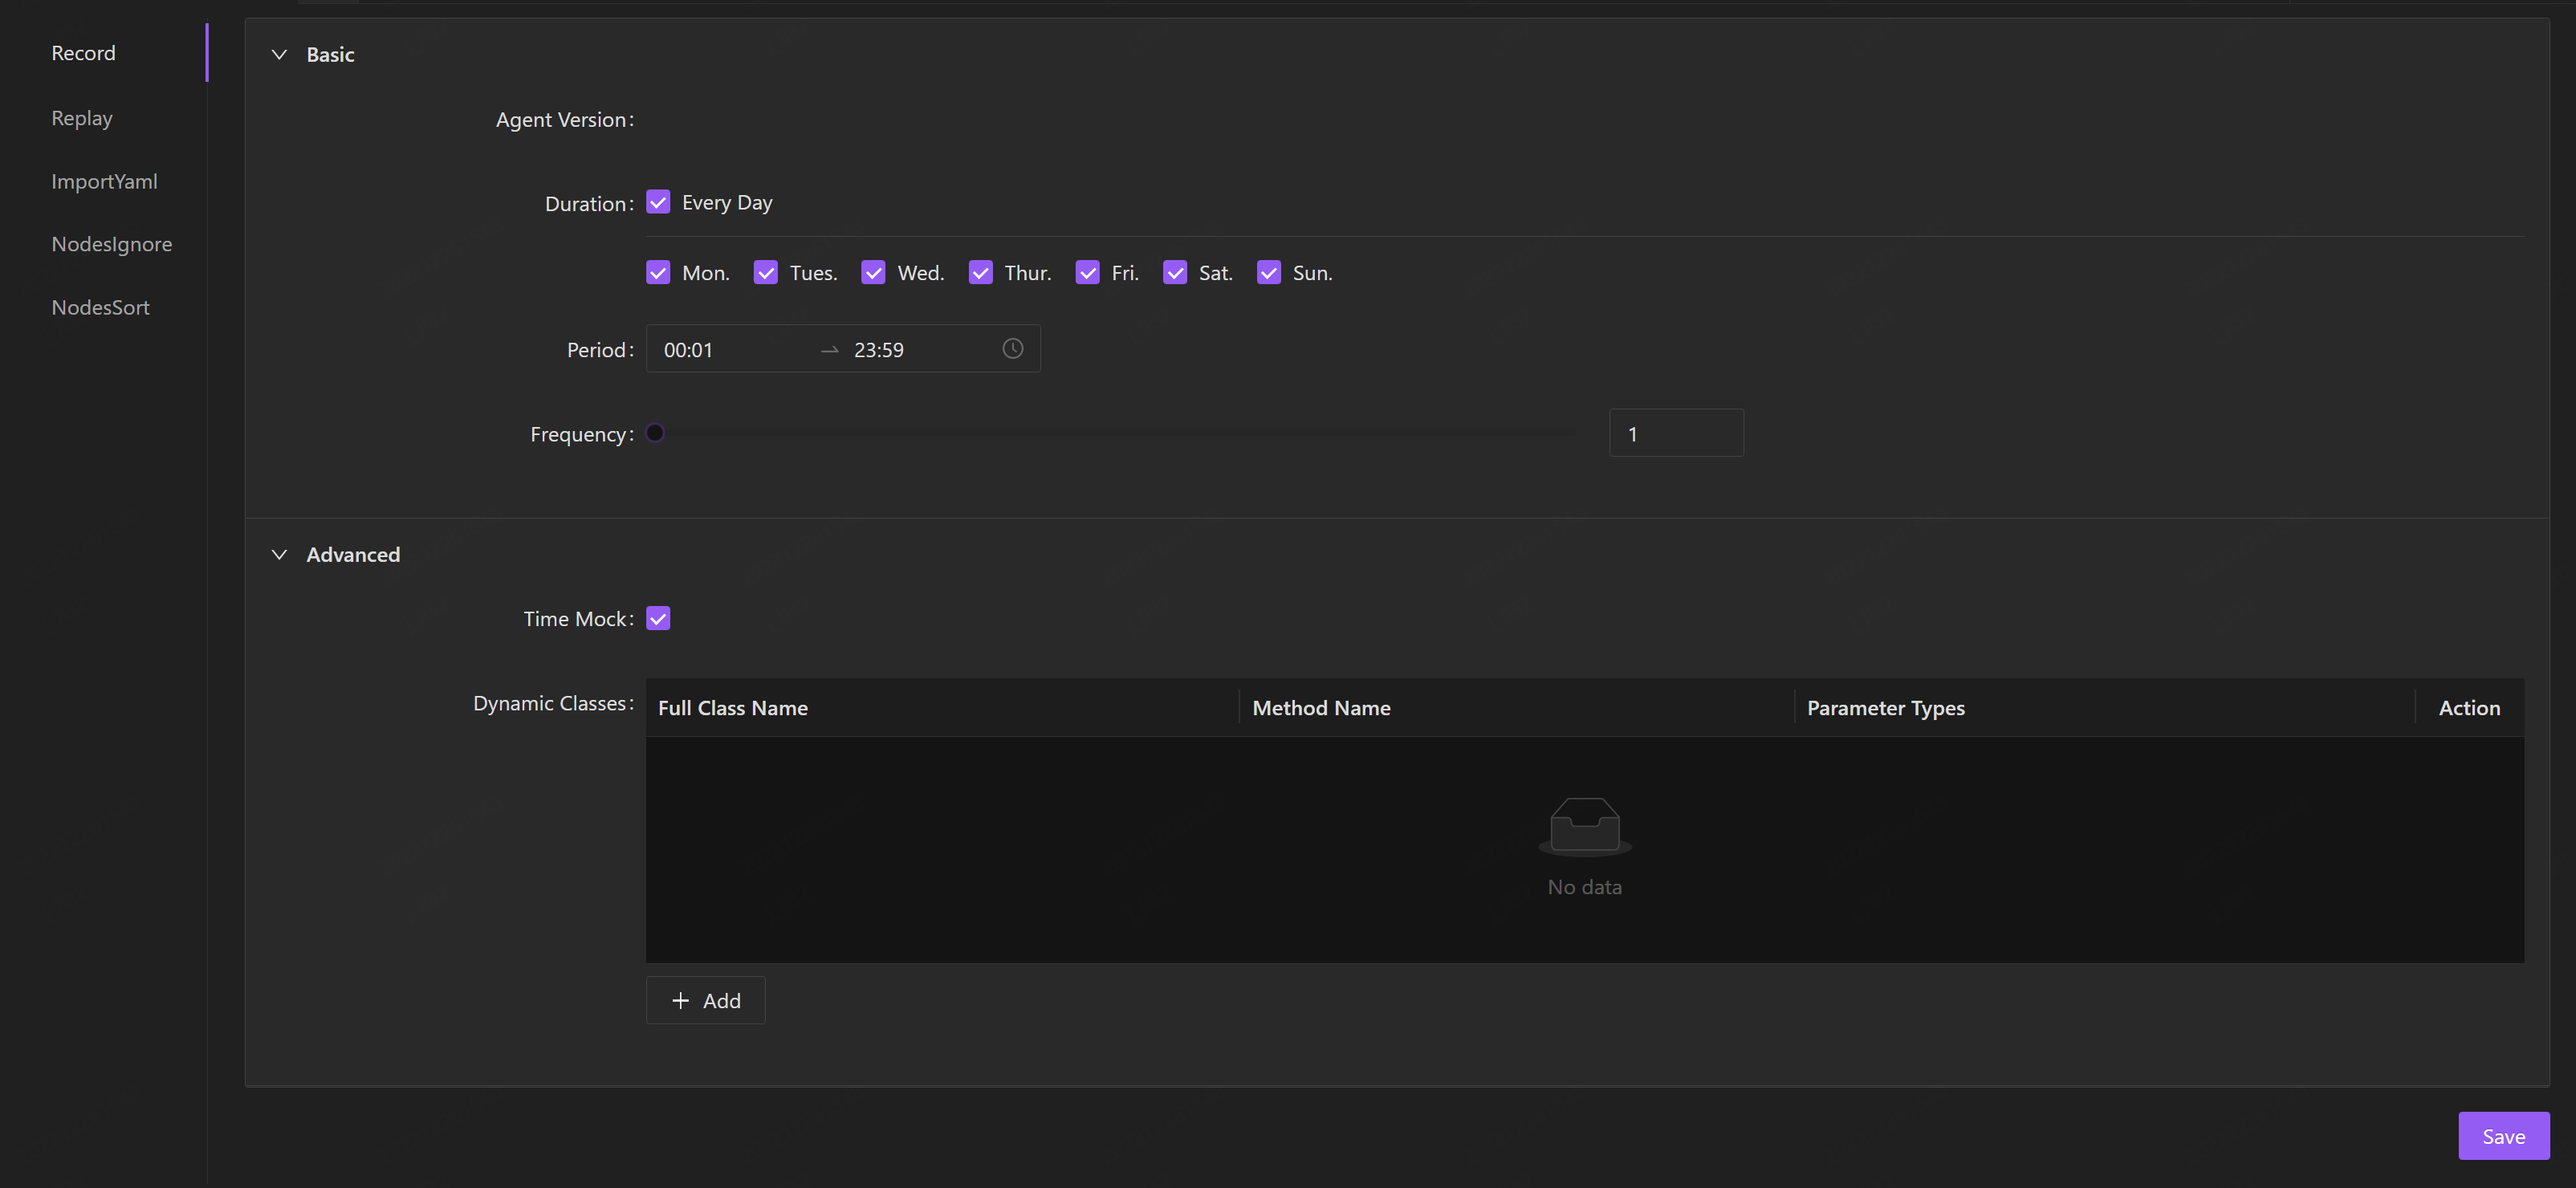
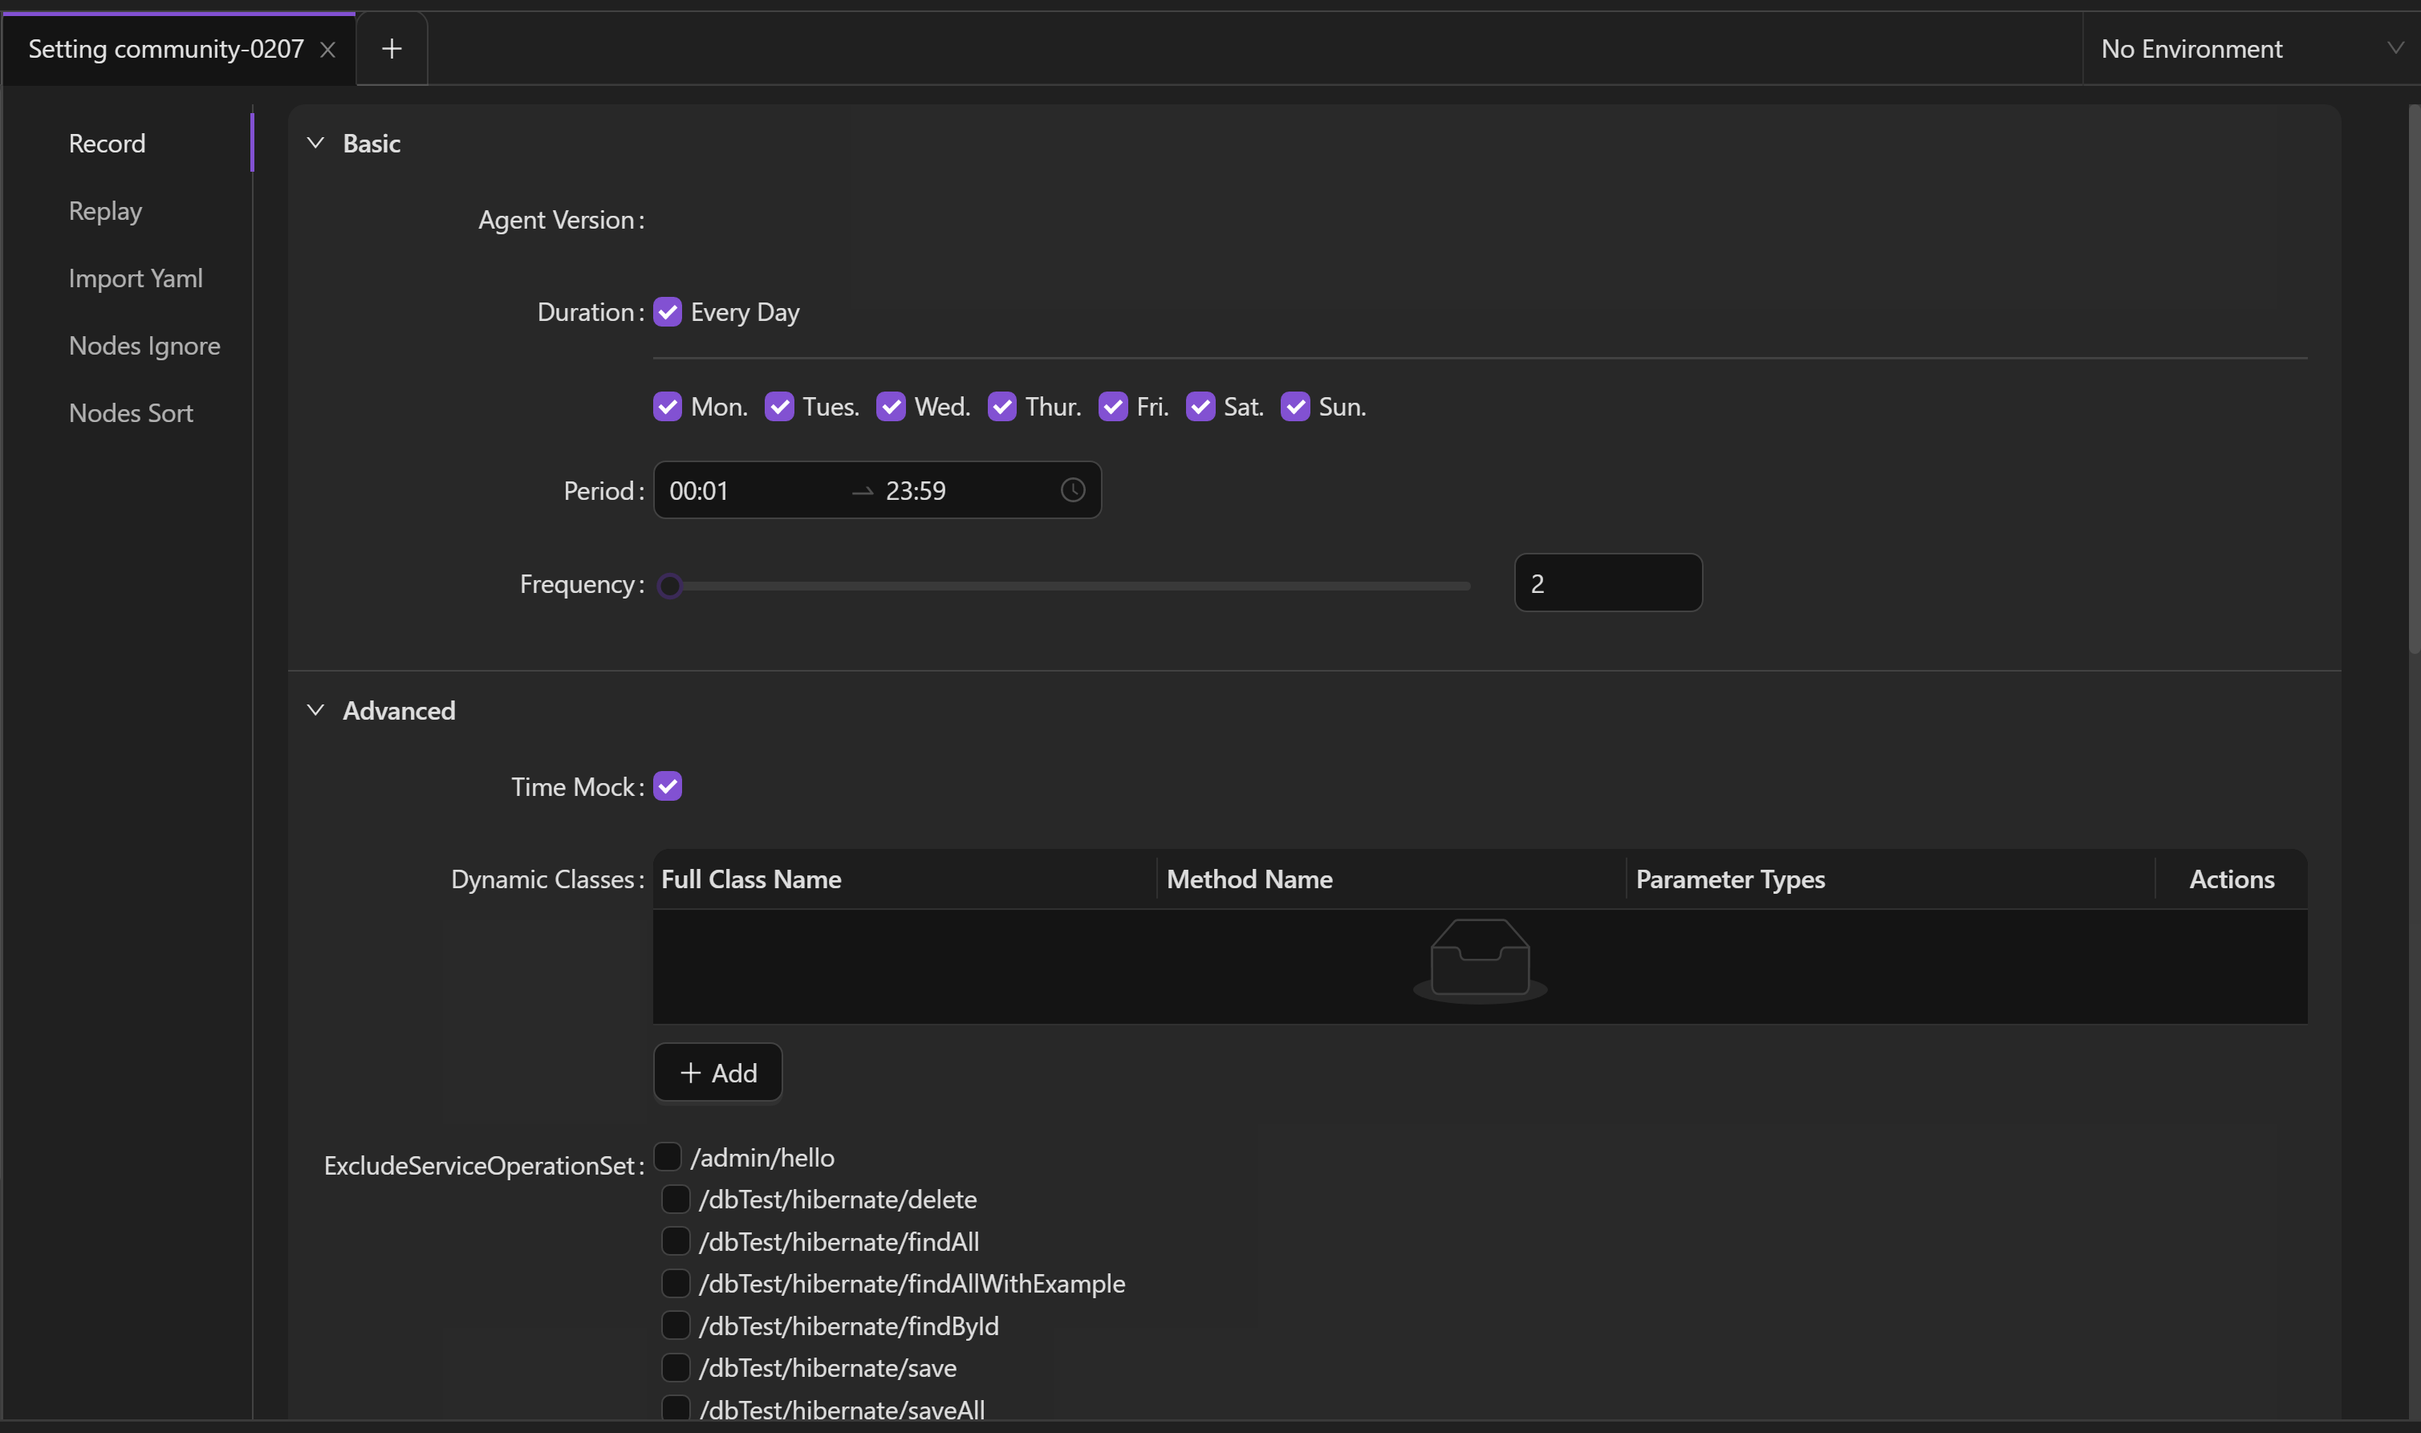
docs: addExcludeServiceOperationSet

diff --git a/docs/chapter 3/Pre-setting.md b/docs/chapter 3/Pre-setting.md
@@ -53,6 +53,8 @@ AREX provides a very comprehensive Mock feature. Not only basic dependency data 
 - MethodName: The method name to be mocked.
 - ParameterTypes: The full class names of all parameters, separated by "@". Primitive types can be abbreviated, such as int.
 
+**ExcludeServiceOperationSet**: Here are all the interface paths accessed during the recording process. Selecting them to skip these paths during subsequent recording.
+
 ### Replay setting
 
 Select **Replay** tab to enter the replay settings page.
